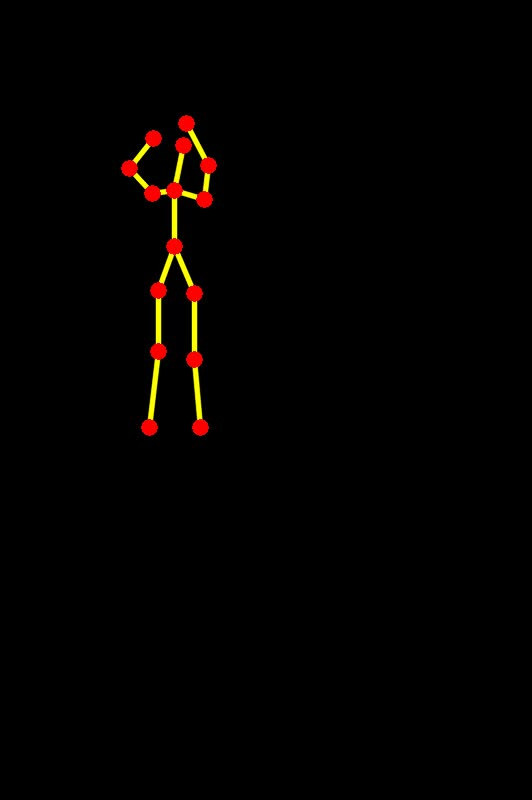
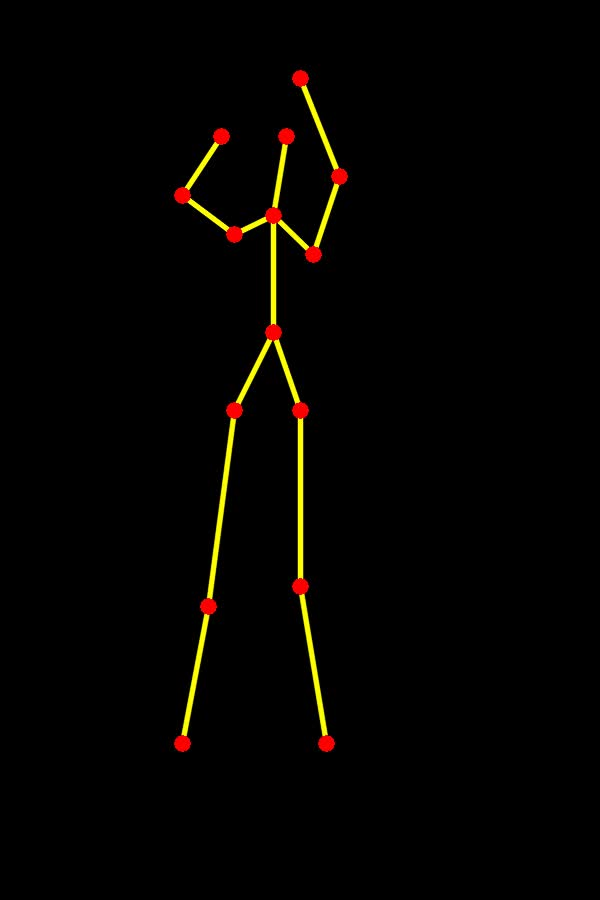
adding average release shot

Changed region(s): [[0.2105, 0.0625, 0.5714, 0.8438], [0.5414, 0.1562, 0.6015, 0.25]]

diff --git a/create_skeleton/PoseAnalysisPhoto.py b/create_skeleton/PoseAnalysisPhoto.py
@@ -88,10 +88,9 @@ while cv2.waitKey(1) < 0 and hasFrame:
         partB = pair[1]
 
         if points[partA] and points[partB]:
-            print(points[partA], points[partB])
-            cv2.line(blank_frame, points[partA], points[partB], (0, 255, 255), 3, lineType=cv2.LINE_AA)
-            cv2.circle(blank_frame, points[partA], 8, (0, 0, 255), thickness=-1, lineType=cv2.FILLED)
-            cv2.circle(blank_frame, points[partB], 8, (0, 0, 255), thickness=-1, lineType=cv2.FILLED)
+            cv2.line(frame, points[partA], points[partB], (0, 255, 255), 3, lineType=cv2.LINE_AA)
+            cv2.circle(frame, points[partA], 8, (0, 0, 255), thickness=-1, lineType=cv2.FILLED)
+            cv2.circle(frame, points[partB], 8, (0, 0, 255), thickness=-1, lineType=cv2.FILLED)
 
     cv2.putText(frame, "time taken = {:.2f} sec".format(time.time() - t), (50, 50), cv2.FONT_HERSHEY_COMPLEX, .8,
                 (255, 50, 0), 2, lineType=cv2.LINE_AA)
@@ -99,7 +98,7 @@ while cv2.waitKey(1) < 0 and hasFrame:
     # cv2.imshow('Output-Keypoints', frameCopy)
     cv2.imshow('Output-Skeleton', frame)
 
-    vid_writer.write(blank_frame)
+    vid_writer.write(frame)
     hasFrame, frame = cap.read()
 
 vid_writer.release()

diff --git a/create_skeleton/AveragePoseAnalysis.py b/create_skeleton/AveragePoseAnalysis.py
@@ -38,7 +38,7 @@ output_name = input_dir.split('/')[2] + input_dir.split('/')[3][:-8]
 photo_ind = 0
 skeleton_dict = {}
 for f in iglob(input_dir):
-
+    print(f)
     input_source = f
     cap = cv2.VideoCapture(input_source)
     hasFrame, frame = cap.read()
